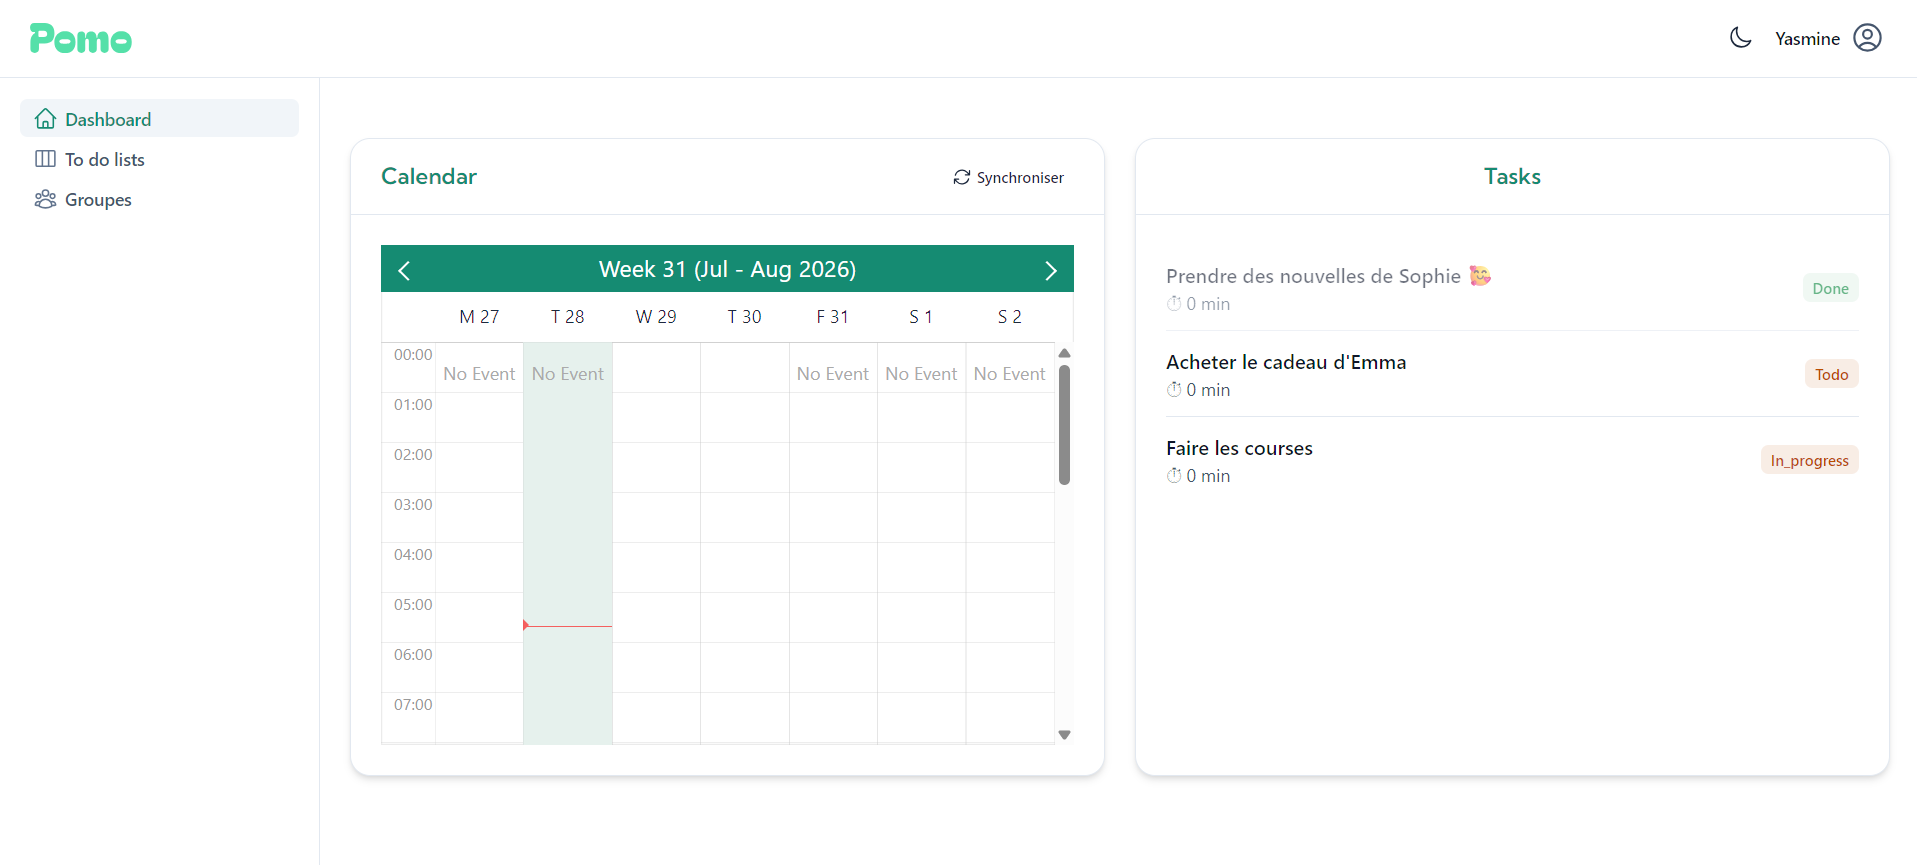
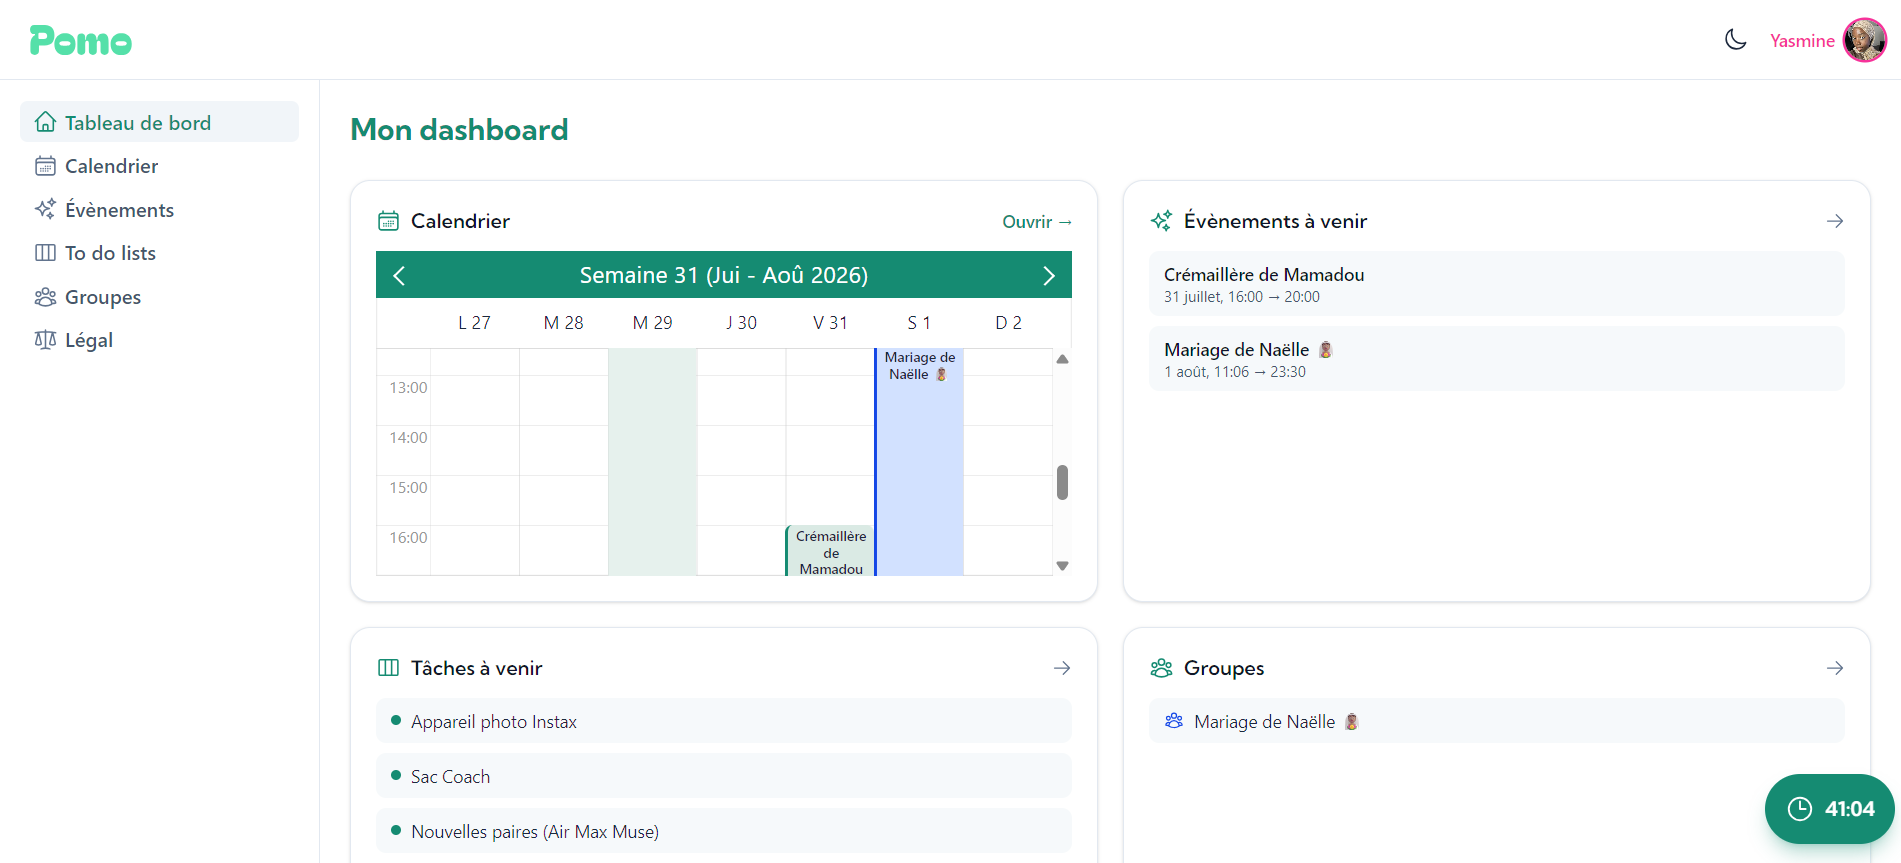
feat(ui): dashboard en cartes, homogeneite des pages, menu rose, images du landing

diff --git a/pomo/inertia/pages/home.vue b/pomo/inertia/pages/home.vue
@@ -1,7 +1,13 @@
 <script setup lang="ts">
+import { computed } from 'vue'
+import { Head, Link } from '@inertiajs/vue3'
+import VueCal from 'vue-cal'
+import 'vue-cal/dist/vuecal.css'
 import DashboardLayout from '../layouts/DashboardLayout.vue'
-import CalendarBoard from '~/components/calendar/CalendarBoard.vue'
+import { toCalendarEntries, eventEndIso } from '~/utils/calendar'
+import { formatDateRangeShort } from '~/utils/date'
 import type { CalendarEvent, CalendarTask } from '~/types/calendar'
+import EmptyState from '~/components/EmptyState.vue'
 
 const props = defineProps<{
   currentUserId: number
@@ -11,10 +17,145 @@ const props = defineProps<{
   groups: { id: number; name: string; isOwner: boolean }[]
   calendarFeedUrl: string
 }>()
+
+const entries = computed(() => toCalendarEntries(props.tasks, props.events))
+
+const now = Date.now()
+const upcomingEvents = computed(() =>
+  props.events
+    .filter((event) => new Date(event.endDate ?? event.startDate).getTime() >= now)
+    .slice(0, 3)
+)
+
+const activeTasks = computed(() => props.tasks.filter((task) => task.status !== 'done').slice(0, 4))
 </script>
 
 <template>
+  <Head title="Mon dashboard" />
   <DashboardLayout>
-    <CalendarBoard v-bind="props" />
+    <div class="flex flex-col gap-6">
+      <h1 class="text-xl font-bold text-primary sm:text-2xl">Mon dashboard</h1>
+
+      <div class="grid gap-5 lg:grid-cols-2">
+        <!-- Calendrier -->
+        <div class="flex flex-col rounded-2xl border border-default bg-default p-5 shadow-sm">
+          <div class="mb-3 flex items-center justify-between">
+            <h2 class="flex items-center gap-2 font-semibold text-highlighted">
+              <UIcon name="i-heroicons-calendar-days" class="h-5 w-5 text-primary" />
+              Calendrier
+            </h2>
+            <Link href="/calendar" class="text-sm font-medium text-primary hover:underline">
+              Ouvrir →
+            </Link>
+          </div>
+          <div class="min-h-0 flex-1">
+            <vue-cal
+              style="height: 260px"
+              locale="fr"
+              default-view="month"
+              hide-view-selector
+              events-on-month-view="short"
+              xsmall
+              :events="entries"
+            />
+          </div>
+        </div>
+
+        <!-- Évènements -->
+        <Link
+          href="/events"
+          class="flex flex-col rounded-2xl border border-default bg-default p-5 shadow-sm transition hover:-translate-y-0.5 hover:shadow-md"
+        >
+          <div class="mb-3 flex items-center justify-between">
+            <h2 class="flex items-center gap-2 font-semibold text-highlighted">
+              <UIcon name="i-heroicons-sparkles" class="h-5 w-5 text-primary" />
+              Évènements à venir
+            </h2>
+            <UIcon name="i-heroicons-arrow-right" class="h-4 w-4 text-dimmed" />
+          </div>
+          <div v-if="upcomingEvents.length" class="flex flex-col gap-2">
+            <div
+              v-for="event in upcomingEvents"
+              :key="event.id"
+              class="rounded-lg bg-elevated/60 px-3 py-2"
+            >
+              <p class="truncate text-sm font-medium text-highlighted">{{ event.title }}</p>
+              <p class="text-xs text-muted">
+                {{ formatDateRangeShort(event.startDate, eventEndIso(event)) }}
+              </p>
+            </div>
+          </div>
+          <EmptyState
+            v-else
+            compact
+            icon="i-heroicons-sparkles"
+            title="Aucun évènement à venir"
+            class="m-auto"
+          />
+        </Link>
+
+        <!-- To-do lists -->
+        <Link
+          href="/todolists"
+          class="flex flex-col rounded-2xl border border-default bg-default p-5 shadow-sm transition hover:-translate-y-0.5 hover:shadow-md"
+        >
+          <div class="mb-3 flex items-center justify-between">
+            <h2 class="flex items-center gap-2 font-semibold text-highlighted">
+              <UIcon name="i-heroicons-view-columns" class="h-5 w-5 text-primary" />
+              Tâches à venir
+            </h2>
+            <UIcon name="i-heroicons-arrow-right" class="h-4 w-4 text-dimmed" />
+          </div>
+          <div v-if="activeTasks.length" class="flex flex-col gap-2">
+            <div
+              v-for="task in activeTasks"
+              :key="task.id"
+              class="flex items-center gap-2 rounded-lg bg-elevated/60 px-3 py-2"
+            >
+              <span class="h-2 w-2 shrink-0 rounded-full bg-primary"></span>
+              <p class="truncate text-sm text-default">{{ task.title }}</p>
+            </div>
+          </div>
+          <EmptyState
+            v-else
+            compact
+            icon="i-heroicons-view-columns"
+            title="Aucune tâche en cours"
+            class="m-auto"
+          />
+        </Link>
+
+        <!-- Groupes -->
+        <Link
+          href="/groups"
+          class="flex flex-col rounded-2xl border border-default bg-default p-5 shadow-sm transition hover:-translate-y-0.5 hover:shadow-md"
+        >
+          <div class="mb-3 flex items-center justify-between">
+            <h2 class="flex items-center gap-2 font-semibold text-highlighted">
+              <UIcon name="i-heroicons-user-group" class="h-5 w-5 text-primary" />
+              Groupes
+            </h2>
+            <UIcon name="i-heroicons-arrow-right" class="h-4 w-4 text-dimmed" />
+          </div>
+          <div v-if="groups.length" class="flex flex-col gap-2">
+            <div
+              v-for="group in groups.slice(0, 4)"
+              :key="group.id"
+              class="flex items-center gap-2 rounded-lg bg-elevated/60 px-3 py-2"
+            >
+              <UIcon name="i-heroicons-user-group" class="h-4 w-4 text-secondary" />
+              <p class="truncate text-sm text-default">{{ group.name }}</p>
+            </div>
+          </div>
+          <EmptyState
+            v-else
+            compact
+            icon="i-heroicons-user-group"
+            title="Aucun groupe"
+            class="m-auto"
+          />
+        </Link>
+      </div>
+    </div>
   </DashboardLayout>
 </template>

diff --git a/pomo/inertia/pages/Landing.vue b/pomo/inertia/pages/Landing.vue
@@ -211,14 +211,13 @@ onBeforeUnmount(() => observer?.disconnect())
               </p>
             </div>
             <div
-              class="mt-8 flex aspect-[4/3] items-center justify-center rounded-xl border border-default bg-muted"
+              class="mt-8 aspect-[4/3] overflow-hidden rounded-xl border border-default bg-muted"
             >
-              <span class="text-xs text-dimmed"
-                ><img
-                  src="../../public/calendrier.png"
-                  alt="Aperçu du calendrier Pomo"
-                  class="w-full"
-              /></span>
+              <img
+                src="../../public/calendrier.png"
+                alt="Aperçu du calendrier Pomo"
+                class="h-full w-full object-cover"
+              />
             </div>
           </article>
 
@@ -291,9 +290,11 @@ onBeforeUnmount(() => observer?.disconnect())
         <div
           class="flex aspect-[4/3] items-center justify-center rounded-2xl border border-default bg-muted shadow-md"
         >
-          <span class="text-sm text-dimmed"
-            >[ Aperçu du timer pomodoro — image à insérer quand j'aurai fini la feature timer]</span
-          >
+          <img
+            src="../../public/pomodoro.png"
+            alt="Aperçu du timer pomodoro"
+            class="h-full w-full object-cover"
+          />
         </div>
       </div>
     </section>
@@ -305,12 +306,15 @@ onBeforeUnmount(() => observer?.disconnect())
       >
         <!-- Placeholder : capture de la page groupes -->
         <div
-          class="order-last flex aspect-[4/3] items-center justify-center rounded-2xl border border-default bg-default shadow-md md:order-first"
+          class="order-last aspect-[4/3] overflow-hidden rounded-2xl border border-default bg-default shadow-md md:order-first"
         >
-          <span class="text-xs text-dimmed">
-            <img src="../../public/groupes.png" alt="Aperçu des groupes Pomo" class="w-full" />
-          </span>
+          <img
+            src="../../public/groupes.png"
+            alt="Aperçu des groupes Pomo"
+            class="h-full w-full object-cover"
+          />
         </div>
+
         <div>
           <span class="text-sm font-semibold uppercase tracking-wide text-primary"
             >Collaboration</span

diff --git a/pomo/inertia/components/EmptyState.vue b/pomo/inertia/components/EmptyState.vue
@@ -4,24 +4,31 @@ withDefaults(
     icon?: string
     title: string
     description?: string
+    compact?: boolean
   }>(),
-  { icon: 'i-heroicons-inbox' }
+  { icon: 'i-heroicons-inbox', compact: false }
 )
 </script>
 
 <template>
-  <div class="flex flex-col items-center justify-center px-6 py-16 text-center">
+  <div
+    class="flex flex-col items-center justify-center text-center"
+    :class="compact ? 'px-4 py-8' : 'px-6 py-16'"
+  >
     <!-- Pastille illustrée avec halo -->
-    <div class="relative mb-5">
+    <div class="relative" :class="compact ? 'mb-3' : 'mb-5'">
       <div aria-hidden="true" class="absolute inset-0 rounded-full bg-primary/20 blur-2xl"></div>
       <div
-        class="relative flex h-20 w-20 items-center justify-center rounded-2xl border border-default bg-primary/10"
+        class="relative flex items-center justify-center rounded-2xl border border-default bg-primary/10"
+        :class="compact ? 'h-14 w-14' : 'h-20 w-20'"
       >
-        <UIcon :name="icon" class="h-9 w-9 text-primary" />
+        <UIcon :name="icon" class="text-primary" :class="compact ? 'h-6 w-6' : 'h-9 w-9'" />
       </div>
     </div>
 
-    <h3 class="text-lg font-semibold text-highlighted">{{ title }}</h3>
+    <h3 class="font-semibold text-highlighted" :class="compact ? 'text-base' : 'text-lg'">
+      {{ title }}
+    </h3>
     <p v-if="description" class="mt-2 max-w-sm text-sm text-muted">{{ description }}</p>
 
     <!-- Slot pour un bouton d'action optionnel -->

diff --git a/pomo/inertia/layouts/DashboardLayout.vue b/pomo/inertia/layouts/DashboardLayout.vue
@@ -104,18 +104,18 @@ const items = [
             type="button"
             class="flex cursor-pointer items-center gap-2 rounded-md px-1 py-0.5 focus:outline-none focus-visible:ring-2 focus-visible:ring-primary"
           >
-            <span class="hidden text-sm font-medium text-highlighted sm:inline">
+            <span class="hidden text-sm font-medium text-pink-500 sm:inline">
               {{ user.first_name }}
             </span>
             <img
               v-if="user.avatarUrl"
               :src="user.avatarUrl"
               alt=""
-              class="h-8 w-8 rounded-full border border-default object-cover"
+              class="h-8 w-8 rounded-full object-cover ring-2 ring-pink-500"
             />
             <span
               v-else
-              class="flex h-8 w-8 items-center justify-center rounded-full bg-primary/10 text-xs font-semibold text-primary"
+              class="flex h-8 w-8 items-center justify-center rounded-full bg-primary/10 text-xs font-semibold text-primary ring-2 ring-pink-500"
             >
               {{ (user.first_name?.[0] ?? '') + (user.last_name?.[0] ?? '') }}
             </span>

diff --git a/pomo/inertia/pages/Events.vue b/pomo/inertia/pages/Events.vue
@@ -62,9 +62,9 @@ const openEvent = (event: CalendarEvent) => {
 <template>
   <Head title="Mes évènements" />
   <DashboardLayout>
-    <div class="mx-auto flex max-w-3xl flex-col gap-5">
+    <div class="flex flex-col gap-5">
       <div class="flex flex-wrap items-center justify-between gap-3">
-        <h1 class="text-xl font-bold text-highlighted">Mes évènements</h1>
+        <h1 class="text-xl font-bold text-primary sm:text-2xl">Mes évènements</h1>
         <UButton icon="i-heroicons-plus" color="primary" @click="isAddModalOpen = true">
           Nouvel évènement
         </UButton>

diff --git a/pomo/inertia/pages/Calendar.vue b/pomo/inertia/pages/Calendar.vue
@@ -18,7 +18,7 @@ const props = defineProps<{
   <Head title="Mon calendrier" />
   <DashboardLayout>
     <div class="flex h-full flex-col gap-4">
-      <h1 class="text-xl font-bold text-highlighted">Mon calendrier</h1>
+      <h1 class="text-xl font-bold text-primary sm:text-2xl">Mon calendrier</h1>
       <div class="min-h-0 flex-1">
         <CalendarBoard v-bind="props" :show-agenda="false" />
       </div>

diff --git a/pomo/inertia/pages/Legal.vue b/pomo/inertia/pages/Legal.vue
@@ -17,7 +17,7 @@ const lastUpdate = '21 juillet 2026'
           href="/"
           class="rounded-md px-2 py-1 text-sm text-toned transition hover:text-highlighted focus:outline-none focus-visible:ring-2 focus-visible:ring-primary"
         >
-          ← Retour à l'accueil'
+          ← Retour à l'accueil
         </Link>
       </div>
     </header>
